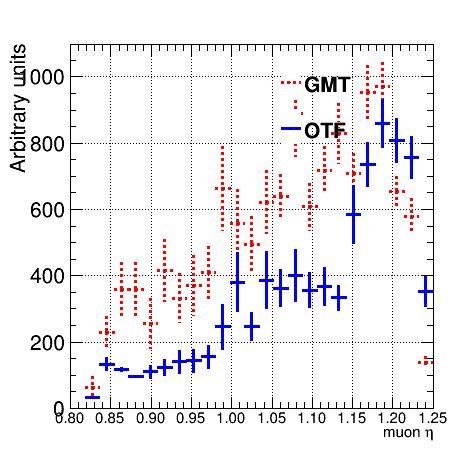
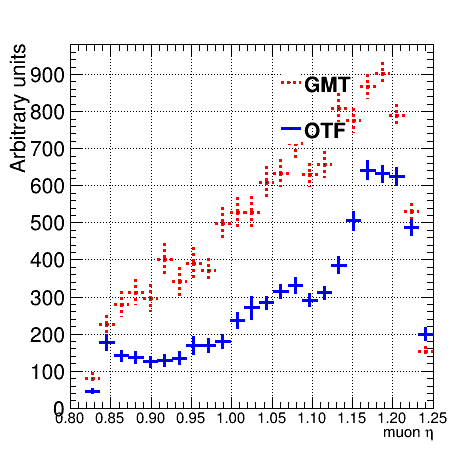
a

diff --git a/OTFAnalysis/OTFAnalyzer.cc b/OTFAnalysis/OTFAnalyzer.cc
@@ -96,18 +96,13 @@ bool OTFAnalyzer::passQuality(std::vector<L1Obj> * myL1Coll,
 
   if(sysType.find("Otf")!=std::string::npos){
   return myL1Coll->size()>iCand &&   
-    ///Barrel        
-    myL1Coll->operator[](iCand).bx/100!=98944 &&
+    ///Barrel            
     myL1Coll->operator[](iCand).bx/100!=99840 &&
     myL1Coll->operator[](iCand).bx/100!=34304 &&
     myL1Coll->operator[](iCand).bx/100!=3075 &&
-    myL1Coll->operator[](iCand).bx/100!=98816 &&
     myL1Coll->operator[](iCand).bx/100!=36928 &&
-    myL1Coll->operator[](iCand).bx/100!=66688 &&
     ////
     myL1Coll->operator[](iCand).bx/100!=12300 && 
-    //myL1Coll->operator[](iCand).bx/100!=33408 && 
-    //myL1Coll->operator[](iCand).bx/100!=196992 && 
     
     ///Endcap
     myL1Coll->operator[](iCand).bx/100!=98816 &&
@@ -117,6 +112,7 @@ bool OTFAnalyzer::passQuality(std::vector<L1Obj> * myL1Coll,
     myL1Coll->operator[](iCand).bx/100!=66688 && 
     myL1Coll->operator[](iCand).bx/100!=66176 && 
     ///
+    
     myL1Coll->operator[](iCand).q>2 &&
     true;
   }
@@ -233,17 +229,35 @@ bool OTFAnalyzer::analyze(const EventProxyBase& iEvent){
 
   clear();
   /*
-  std::bitset<17> bits(98816);
+  std::bitset<17> bits(99840);
+  std::cout<<99840<<" bits: "<<bits.to_string()<<std::endl;
+
+  bits = std::bitset<17>(34304);
+  std::cout<<34304<<" bits: "<<bits.to_string()<<std::endl;
+
+  bits = std::bitset<17>(3075); 
+  std::cout<<3075<<" bits: "<<bits.to_string()<<std::endl;
+
+  bits = std::bitset<17>(36928); 
+  std::cout<<36928<<" bits: "<<bits.to_string()<<std::endl;
+
+ bits = std::bitset<17>(12300); 
+  std::cout<<12300<<" bits: "<<bits.to_string()<<std::endl;
+
+ bits = std::bitset<17>(98816); 
   std::cout<<98816<<" bits: "<<bits.to_string()<<std::endl;
 
-  std::bitset<17> bits1(33408);
-  std::cout<<33408<<" bits: "<<bits1.to_string()<<std::endl;
-
-  bits = std::bitset<17>(98944);
+  bits = std::bitset<17>(98944); 
   std::cout<<98944<<" bits: "<<bits.to_string()<<std::endl;
 
-  bits = std::bitset<17>(196992); 
-  std::cout<<196992<<" bits: "<<bits.to_string()<<std::endl;
+ bits = std::bitset<17>(33408); 
+  std::cout<<98944<<" bits: "<<bits.to_string()<<std::endl;
+
+ bits = std::bitset<17>(66688); 
+  std::cout<<98944<<" bits: "<<bits.to_string()<<std::endl;
+
+ bits = std::bitset<17>(66176); 
+  std::cout<<98944<<" bits: "<<bits.to_string()<<std::endl;
 
   exit(0);
   */
@@ -254,7 +268,6 @@ bool OTFAnalyzer::analyze(const EventProxyBase& iEvent){
   theEvent = myEvent.events;
 
   if(theEvent->eta<0.83 || theEvent->eta>1.24) return true;
-  //if(theEvent->eta<1.15 || theEvent->pt>10000) return true;
 
   std::string selType = "";
   std::string sysTypeGmt="Gmt";
@@ -264,7 +277,6 @@ bool OTFAnalyzer::analyze(const EventProxyBase& iEvent){
 
   for(int iCut=0;iCut<22;++iCut){
 	  if(iCut>0 && iCut<14) continue;
-	  //std::cout<<"thread number: "<<omp_get_thread_num()<<std::endl;
 	  fillTurnOnCurve(iCut,sysTypeGmt,selType);
 	  fillTurnOnCurve(iCut,sysTypeOtf,selType);
 	  fillTurnOnCurve(iCut,sysTypeRpc,selType);

diff --git a/src/TreeAnalyzer.cc b/src/TreeAnalyzer.cc
@@ -118,13 +118,11 @@ void TreeAnalyzer::parseCfg(const std::string & cfgFileName){
   //fileNames_.push_back("/home/akalinow/scratch/CMS/OverlapTrackFinder/Emulator/job_4_ana/5760_100k_4xMerging/EfficiencyTree.root");
   //fileNames_.push_back("/home/akalinow/scratch/CMS/OverlapTrackFinder/Emulator/job_4_ana/5760_20k_noMerging/EfficiencyTree.root");
 
-  //fileNames_.push_back("/home/akalinow/scratch/CMS/OverlapTrackFinder/Emulator/job_4_ana/EfficiencyTree.root");
-
-  //fileNames_.push_back("/home/akalinow/scratch/CMS/OverlapTrackFinder/EmulatorStable/job_4_ana/EfficiencyTree.root");
-
+  fileNames_.push_back("/home/akalinow/scratch/CMS/OverlapTrackFinder/Emulator/job_4_ana/EfficiencyTree.root");
+  //fileNames_.push_back("/scratch_local/akalinow/Presentations/L1Trigger_XX_04_2015/NoMerging/EfficiencyTree.root");
 
   //fileNames_.push_back("/home/akalinow/scratch/CMS/PAC/data/OMTFtrees/EfficiencyTree_2012.root");
-  fileNames_.push_back("/home/akalinow/scratch/CMS/PAC/data/OMTFtrees/EfficiencyTree_PostLS1Ext.root");
+  //fileNames_.push_back("/home/akalinow/scratch/CMS/PAC/data/OMTFtrees/EfficiencyTree_PostLS1Ext.root");
 
 }
 //////////////////////////////////////////////////////////////////////////////

diff --git a/PACAnalysis/PACAnalyzer.cc b/PACAnalysis/PACAnalyzer.cc
@@ -140,7 +140,8 @@ void PACAnalyzer::fillRateHisto(const std::string & sysType,
 
 	///Rate vs selected variable is plotted for given pt cut.
 	pass = pass && (myL1Coll->operator[](iCand).pt>=ptCut);
-	int q = pass*myL1Coll->operator[](iCand).q;
+	int q = 0;
+	if(myL1Coll->size()) myL1Coll->operator[](iCand).q;
 
 	if(selType=="VsEta") myHistos_->fill2DHistogram(hName,theEvent->pt,pass*theEvent->eta+(!pass)*99);
 	if(selType=="VsPt") myHistos_->fill2DHistogram(hName,theEvent->pt,pass*theEvent->pt+(!pass)*(-100));
@@ -157,9 +158,7 @@ bool PACAnalyzer::analyze(const EventProxyBase& iEvent){
   theEvent = myEvent.events;
 
   //if(theEvent->eta<0.0 || theEvent->eta>2.1) return true;
-  if(theEvent->eta<1.24) return true;
-
- 
+   
   std::string selType = "";
   std::string sysTypeGmt="Gmt";
   std::string sysTypeRpc="Rpc";
@@ -199,7 +198,6 @@ bool PACAnalyzer::analyze(const EventProxyBase& iEvent){
   fillRateHisto("Rpc","VsEta");
   fillRateHisto("Rpc","VsPt");
   fillRateHisto("Rpc","VsQuality");
-
 
   return true;
 }

diff --git a/OTFAnalysis/OTFHistograms.cc b/OTFAnalysis/OTFHistograms.cc
@@ -578,9 +578,8 @@ void OTFHistograms::plotRate(std::string type){
   if(type=="VsPt"){
     c->SetLogy(0);  
     hRateGmt->SetXTitle("p_{T}^{gen} [GeV/c]");
-    hRateOtf->Draw();    
-    hRateGmt->Draw("same");
-
+    hRateGmt->Draw();
+    hRateOtf->Draw("same");    
   }
   if(type=="VsQuality"){
     c->SetLogy(0);  
